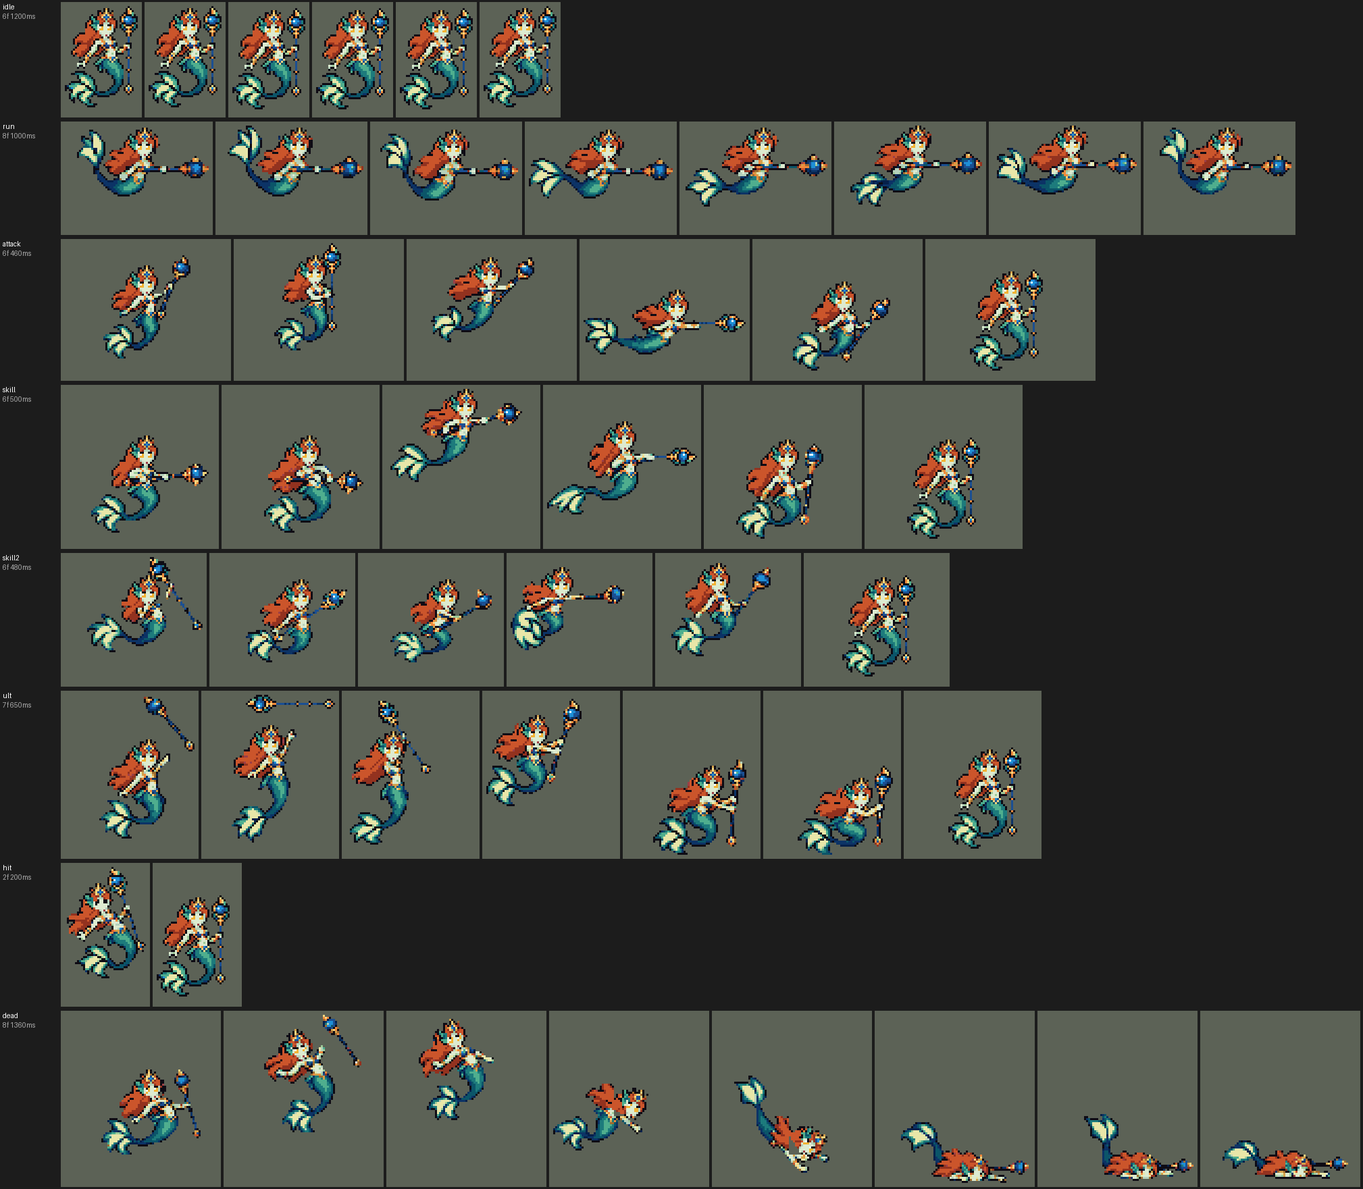
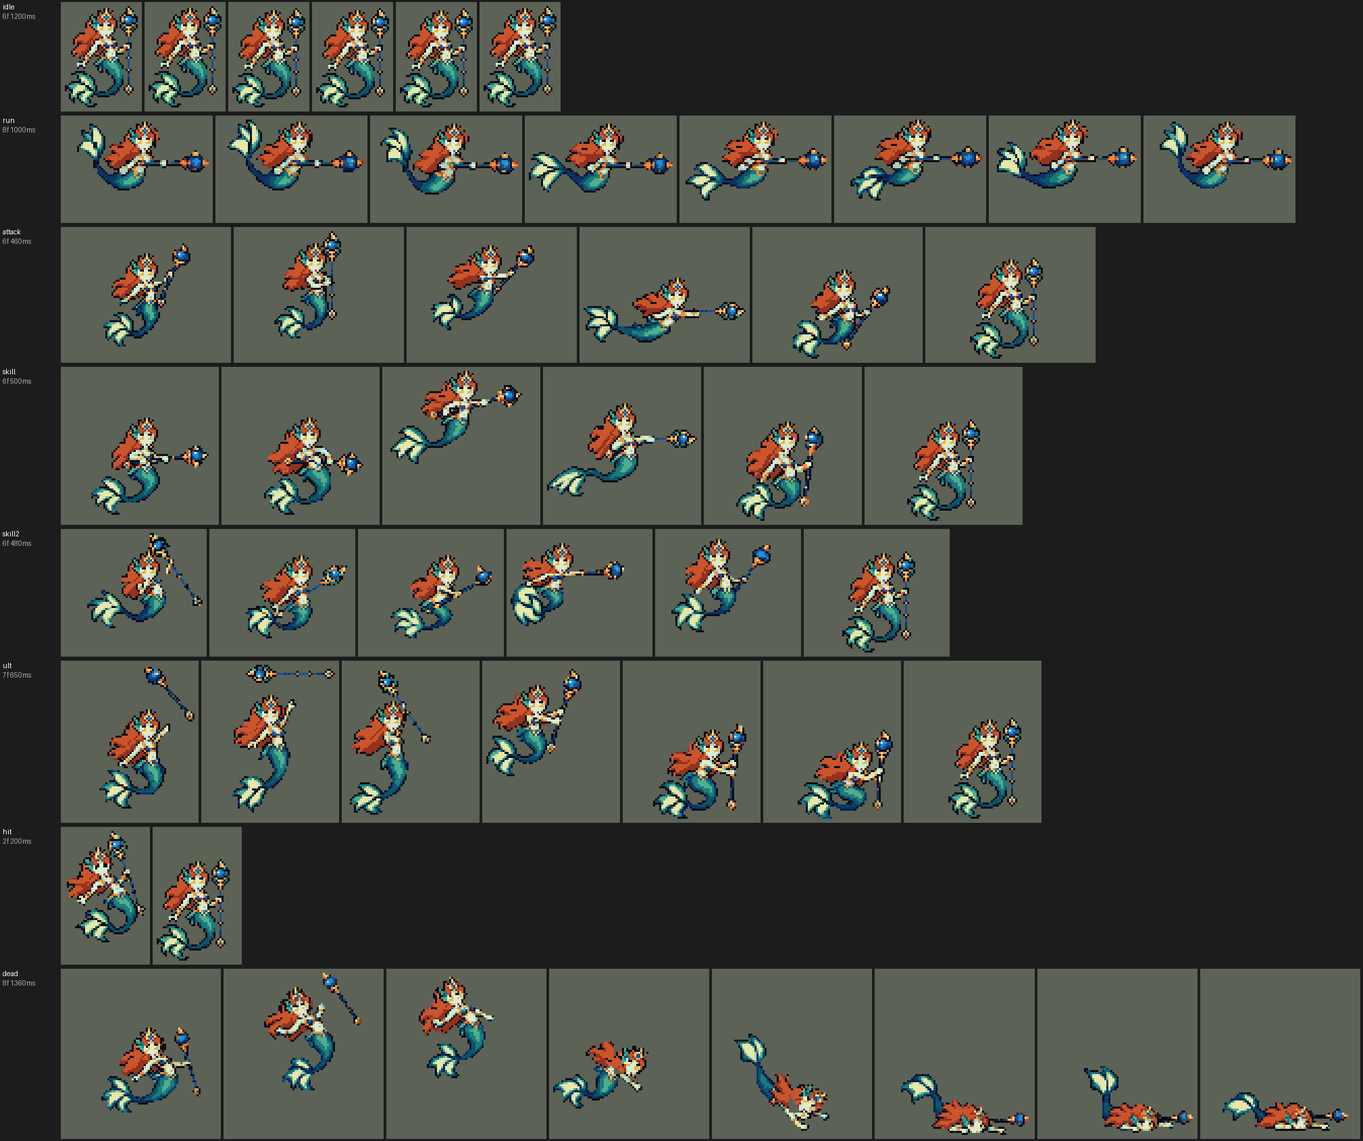
Nami stands on the ground; banpick_center for every tall hero
The user: "整体下移 3 格、去掉浮空" (she sat 3 px high in the collection
grid, where every hero's feet share one line) and "按同样的规则一起调"
(the ban/pick card rule), models unchanged.

- import_native.py SINK: every frame moves down 3 px but not past the
  soles row, so R's landing and the death on the ground stay; the
  pictures are pixel for pixel the old ones. Idle BOB seam 12 -> 8: all
  but the fin's tip and the staff's foot sinks a row, as she bobbed.
- banpick_center = -39 - highest idle row for every hero reaching above
  -28: Master Yi +5, Kayle 0, Nami -1, Janna -2, Fiddlesticks and
  Malphite -4, Briar and Lucian -5, Morgana -6, Lee Sin -7, Darius and
  Yone -9, Leona, Soraka and Thresh -10. Face (6, -47) is now at her
  crown (it was 3 px under it while she floated).
- showcase orb 3 px lower, previews re-rendered, README section.

diff --git a/tools/art/import_native.py b/tools/art/import_native.py
@@ -48,6 +48,11 @@ MOD = os.path.join(ROOT, "league")
 HEAD_ROWS = 12                  # idle frame 1's top rows: the head
 SURE = 0.9                      # share of the head's pixels that must match exactly
 STEADY = ("idle", "run")
+# hero: rows every frame moves down, but never past the soles row (SOLES under the pivot): a hero drawn floating
+# who should stand on the ground. Nami floated 3 px like Janna, so in the collection grid (every hero's feet on one
+# line) she sat high; the user: "整体下移 3 格、去掉浮空". Frames already on the ground stay (R's landing, her death).
+SINK = {"nami": 3}
+SOLES = 11
 ORDER = {("lux", "idle"): [0, 0, 0, 0, 0, 0],   # the step-2 idle is the design in all six (was 0 1 2 3 5 4)
          # League leans his upper body a square forward in idle 4-5 and back in 6, and every frame's head
          # is voted anew, so the face swung and changed shape as he breathed (the user). Frame 1 in every
@@ -157,8 +162,9 @@ BOB = {("yasuo", "idle"): (-2, [2, 3, 4]),
        ("briar", "idle"): (5, [2, 3, 4]),
        # Vayne: the seam across her shins, where the silhouette changes by 4 squares; her boots stay
        ("vayne", "idle"): (5, [2, 3, 4]),
-       # Nami floats like Janna: all of her, down to the fin 3 px above the ground, sinks a row and rises again
-       ("nami", "idle"): (12, [2, 3, 4])}
+       # Nami (on the ground since SINK): all of her but the fin's tip and the staff's foot sinks a row and rises
+       # again, as when she floated; the seam where two rows differ least (4 squares)
+       ("nami", "idle"): (8, [2, 3, 4])}
 CROWN = {"leesin"}              # heroes whose head template starts at the crown (a braid stands above it)
 PASTED = {"masteryi"}            # steadied on the head restyle_native pasted: his raised sword is the top of every frame
 # Codex's step-2 redraw (model_strips_18, tidied by tidy_codex18.py): the approved design's head (or face) is in every
@@ -311,10 +317,20 @@ def build(hero):
             target = round(sum(sure) / len(sure))
             dx = [0 if h is None else target - h for h in hx]
         order = ORDER.get((hero, tag), range(len(fr)))
-        sheet[tag] = [(G.centre_frame(fr[k], dx[k] - rows[k]["pivot"][0], -rows[k]["pivot"][1]), rows[slot]["ms"])
-                      for slot, k in enumerate(order)]
+        sheet[tag] = [(G.centre_frame(fr[k], dx[k] - rows[k]["pivot"][0], sunk(hero, fr[k], rows[k]["pivot"][1])),
+                       rows[slot]["ms"]) for slot, k in enumerate(order)]
         report[tag] = [(None if hx[k] is None else hx[k] + dx[k], dx[k]) for k in order]
     return sheet, report
+
+
+def sunk(hero, frame, py):
+    """The frame's row offset for centre_frame: -py, plus the rows SINK moves it down (as far as the soles row lets
+    its lowest pixel go)."""
+    n = SINK.get(hero, 0)
+    ys = np.nonzero(frame[..., 3].any(1))[0]
+    if n and len(ys):
+        n = max(0, min(n, SOLES - (ys[-1] - py)))
+    return -py + n
 
 
 def touch_up(hero, sheet):

diff --git a/tools/art/preview_nami.py b/tools/art/preview_nami.py
@@ -78,7 +78,7 @@ def showcase(out, z=3, step=40):
         fx_at(small, tag, launch, x0, y0, until=arrive, x1=tx, y1=ty - 8)
         return arrive
 
-    orb = (x + 16, gy - 20)                           # the staff's orb when she thrusts it
+    orb = (x + 16, gy - 17)                           # the staff's orb when she thrusts it
     # she swims in; Garen walks up behind Darius
     run_in = Anim(frames_of(nami, "run"), 0.0, x - 44, gy, loop=True, until=1000, x1=x)
     body.append(run_in)

diff --git a/README.md b/README.md
@@ -59,7 +59,7 @@
 ![贝蕾亚演示：跑进场，Q 冲头扑到德莱厄斯身上眩晕他，进入血莽（绕身的血焰）连咬，2 秒后噬击的獠牙大嘴咬下、给自己回血；E 惊吼：护壳里蓄力 1 秒，尖啸把他击退并眩晕 1 秒，他逃到后面；R 毙除：踢出的血石停在德莱厄斯身上、标记他为猎物，贝蕾亚飞过去落地炸开，命中他和前排走来的盖伦，盖伦恐惧逃出画面；彻底血狂里连咬，噬击咬死德莱厄斯](docs/preview/league_briar_showcase.gif?v=0930c)
 
 ![薇恩演示：跑进场，腕弩的弩箭在德莱厄斯胸口套上圣银弩箭的第一个环；Q 闪避突袭：他在射程里，往后小跳，原地留下一团夜紫色的烟，强化箭套上第二个环，第三箭三环收拢爆开；E 恶魔审判：重箭把他击退，落地撞出尘土、眩晕 1 秒；R 终极时刻：身后亮起四角星光芒、蝙蝠飞散，脚下的四角星地纹和银光点跟着她 8 秒，弩箭再次三环爆开打死德莱厄斯，终极时刻刷新（猩红光环）；盖伦走上来，她往后翻滚隐身 1 秒，强化箭套环](docs/preview/league_vayne_showcase.gif?v=0930vb)
-![娜美演示：游进场，手杖宝珠射出两颗水弹打德莱厄斯；W 冲击之潮的水流打中德莱厄斯，弹到身后的卢锡安身上给他回血、套上唤潮之佑的水环（4 秒）和脚下踏浪之行的水涡，再弹去打走来的盖伦；Q 碧波之牢的水泡抛过去，地上先亮落点圈，落地炸开，德莱厄斯和盖伦被困进水泡浮起 1.25 秒；两人扑上来，R 怒涛之啸：娜美把手杖插在地上，月牙形的巨浪卷过两人把他们击飞](docs/preview/league_nami_showcase.gif?v=0930n2)
+![娜美演示：游进场，手杖宝珠射出两颗水弹打德莱厄斯；W 冲击之潮的水流打中德莱厄斯，弹到身后的卢锡安身上给他回血、套上唤潮之佑的水环（4 秒）和脚下踏浪之行的水涡，再弹去打走来的盖伦；Q 碧波之牢的水泡抛过去，地上先亮落点圈，落地炸开，德莱厄斯和盖伦被困进水泡浮起 1.25 秒；两人扑上来，R 怒涛之啸：娜美把手杖插在地上，月牙形的巨浪卷过两人把他们击飞](docs/preview/league_nami_showcase.gif?v=0930n3)
 
 ## 英雄：盖伦
 
@@ -888,7 +888,7 @@ python tools/art/preview_kayle.py
 - 原来那版的结果：42 色，和右边像素同色的比例 31%（原版英雄 18%–46%），头像截取点 (1, −36)。
 - 重画：玩家反映模型"太抽象"，用户让 Codex 按游戏原尺寸重画全部 63 帧，做法和提示词见 [`assets/source/kayle/MODEL_REDRAW.md`](assets/source/kayle/MODEL_REDRAW.md)。凯尔的格子是 112×112，16 帧的移动整张图 3584×3584，所以每帧单独一张 64×112 格的画布（`tools/art/native_frames.py split`，锚点都在 (32, 86)，拆开再合回逐字节不变）；参考图包含英雄联盟模型渲染，只在本地。交回后 `native_frames.py join` 把每帧按锚点放回格子，再 `import_native.py` 导入。
 - 重画的整理（用户："Codex不合格的地方学稻草人会话的处理方式 麻烦你兜底处理"）：Codex 先交造型图（生图原稿 948×1659、像素块宽 14–16 px 不等），Claude 按它自己的像素边缘逐格取色、整理成 21 色，用户通过（[`kayle_model_design.png`](assets/source/kayle/kayle_model_design.png)）。63 帧里待机 6 帧就是造型图，另外 57 帧仍是生图原稿：半透明边缘、每张两三万种颜色、像素块 11–16 px 宽且各帧不同，头的细节、人的位置也每帧不一样（Codex 的交接说明见 [`codex_model/`](assets/source/kayle/codex_model/)）。`tools/art/tidy_kayle.py` 在游戏像素上整理：每个像素取原稿里它中心的颜色（整格合并会在块宽对不上时重复出一列描边，移动第 11 帧中间多了一条黑线），映射到 21 色；受击和倒地以外的 48 帧擦掉画的头、贴上造型图的头（两只眼睛对上画的眼睛，找不到时按头顶和脸的位置），每帧同一张脸，循环时头不"沸腾"；琥珀色只留在眼睛上；竖直方向按身体最低一行对齐原来那一帧，移动恢复了原版的上下浮动（原稿里低了 3–13 行）；横向保持 Codex 画的位置，待机和移动按眼睛对齐（`import_native.py` 的 `EYES`，和费德提克一样，凯尔从 `PASTED` 移过去）。
-- 重画后的结果：21 色，和右边像素同色的比例 37%，头像截取点 (−2, −40)（去掉翅膀量的头顶）。选人卡片：她从翅膀尖到脚 50 px，不设 `banpick_center` 时翅膀冒出卡片上沿（用户在游戏里看到），设 −9 时翅膀尖被卡片上沿切掉；照原版高个英雄的做法设 (0, 0)：翅膀完整，小腿以下藏在名字栏后面（量法见娜美一节）。Q 第 4 帧 Codex 画得小一圈，没有改。
+- 重画后的结果：21 色，和右边像素同色的比例 37%，头像截取点 (−2, −40)（去掉翅膀量的头顶）。选人卡片：她从翅膀尖到脚 50 px，不设 `banpick_center` 时翅膀冒出卡片上沿（用户在游戏里看到），设 −9 时翅膀尖被卡片上沿切掉；照原版高个英雄的做法设 (0, 0)：翅膀完整，小腿以下藏在名字栏后面（见「选人卡片位置」一节）。Q 第 4 帧 Codex 画得小一圈，没有改。
 
 逐帧预览：[`docs/preview/league_kayle_frames.png`](docs/preview/league_kayle_frames.png)，特效：[`docs/preview/league_kayle_effects.png`](docs/preview/league_kayle_effects.png)。
 
@@ -1148,7 +1148,7 @@ python tools/art/preview_vayne.py
 | 大招 | R「怒涛之啸」：90000 内有敌方英雄时放，冷却 50 秒。第 17 tick 从插在地上的手杖放出巨浪（速度 2500、走 160000、半径 32000），穿过的敌人受 150 + 70% 法术强度的魔法伤害，击飞 0.5 秒并减速 60%；巨浪走得越远减速越久（出手后 32 tick 内打中的 2 秒，之后的 3 秒；英雄联盟是 2 到 4 秒）；经过的友方英雄拿到两倍的踏浪之行加速 |
 | 数值 | 攻击 80（+6）、法术强度 30（+15）、生命 880（+85）、护甲 20（+8）、魔抗 22（+4）、移速 1000（+10）。数值是自己设计的，用 SDK 对战模拟调：打辅助，对 5 个原版辅助（`priest`、`bard`、`enchanter`、`monk`、`taoist`），两边、三套队友阵容各 12 局，一批 360 局。初稿 +1.21；W 改成上面的弹跳规则、第一段 65 + 45% 等削弱后两批 +0.68 / +1.14（同两批莫甘娜 +0.78 / +0.42、迦娜 +0.53 / −0.19）；按动作帧定下出手时机（普攻第 11 tick，W 第 8 tick，Q 第 11 tick，R 第 17 tick）后 +0.96 / +0.60。娜美每局放 W 约 40 次（打英雄约 13 次）、Q 约 23 次、R 约 2.8 次 |
 | 亚索联动 | Q 和 R 的击飞都算亚索大招要的控制：娜美在队里时亚索每局 R 到被控英雄 1.77 次（同一批迦娜 0.94），在本包辅助的范围内（蕾欧娜 1.85），亚索不用调 |
-| 精灵图 | 8 个动作 49 帧：待机、移动、普攻、W、Q、R、受击、死亡。造型按用户给的图由 Codex 按游戏尺寸画（第三轮 A）：红色长发、金冠嵌蓝宝石、琥珀色大眼、鱼鳍耳，金蓝贝壳胸衣和腰带，青绿鳞片的长尾往左下卷、淡黄绿的扇形尾鳍，手持深蓝杖身、金框蓝宝珠的法杖。金冠到尾鳍尖 50 px、36 px 宽，21 色；像迦娜一样浮空 3 px。每帧的时机和站位照英雄联盟原版动画渲染的参考帧 |
+| 精灵图 | 8 个动作 49 帧：待机、移动、普攻、W、Q、R、受击、死亡。造型按用户给的图由 Codex 按游戏尺寸画（第三轮 A）：红色长发、金冠嵌蓝宝石、琥珀色大眼、鱼鳍耳，金蓝贝壳胸衣和腰带，青绿鳞片的长尾往左下卷、淡黄绿的扇形尾鳍，手持深蓝杖身、金框蓝宝珠的法杖。金冠到尾鳍尖 50 px、36 px 宽，21 色；尾鳍落在脚底线上（原来像迦娜一样浮空 3 px，收藏界面里比别人高，用户让整体下移 3 格）。每帧的时机和站位照英雄联盟原版动画渲染的参考帧 |
 | 特效 | 普攻水弹和命中水花、W 水流（弹跳、飞回）、打中敌人的水花、治疗友军的水流、唤潮之佑的水环（友军身上）、踏浪之行的脚下水涡、Q 水泡（抛物线）、落点提示圈、落地炸开的水柱、水牢泡泡（被困的敌人身上）、R 月牙形巨浪、击飞水柱 |
 | 图标 | 官方技能图标（W / Q / R），64×64 |
 | 音频 | 从本地客户端提取的 12 条技能音效和 2 条中文语音（Q、R）。不提交到仓库，按下面的命令在本地生成 |
@@ -1168,12 +1168,23 @@ python tools/art/preview_nami.py
 - 造型：第一轮 Codex 在约 80 格高画（游戏尺寸的约 1.7 倍），尾巴被画短了；照原图把尾巴描回去再缩小，用户觉得"都不满意 看起来太奇怪了""主要是要不模糊细节好"。第三轮照主线卢锡安的做法让 Codex 直接按游戏尺寸画（金冠到尾鳍尖约 50 格），整理时只按它自己的格子取像素。用户选 A，再修两处：脸原来是方的（"怎么方形的脸？"），换成用户选的 D（椭圆脸、尖下巴，两只 2×2 的琥珀色眼睛带白色高光，琥珀色 `#F2B233` 只用在眼睛上）；体型比别的英雄大（"体型还是太大 能不能尽量和别的英雄一个尺寸"），按用户选的 W 每组删掉和相邻最像的一行（列），脸和法杖杖身所在的行列不删，缩到 36×50（和迦娜的面积相近）；尾鳍的浅色换成原图的淡黄绿 `#E8E6A8`。`design_nami.py` 从 Codex 的原稿逐步重建定稿 [`nami_native.png`](assets/source/native/nami_native.png)。
 - 动作参考（`poses.json`）：镜头镜像、yaw 45、pitch 25，头 1.4、头发 0.6，高度 47，浮空 3 px，96×96 的格子。英雄联盟的娜美没有腿，`native_pose.py` 新加的 `"legs"` 选项用尾巴（`Tail1` 链）量脚底；`"flat"` 的帧伸出渲染图下边时（插在地上的法杖、死亡时脸朝下）现在会重新量一次。移动照她基础移速下播的直立游（`run_base` 同时播 `Nami_run_C` 和 `Nami_run_L`），取 `Nami_run_L` 的前 1 秒：尾巴摆一下，8 帧 × 125 ms 首尾相接；普攻 `Nami_attack1`，W `Nami_spell2`，Q `Nami_spell1`，R `Nami_spell4`（抛杖、跃起、落下插杖），死亡 `Nami_Death`（最后三帧沉到地上）。
 - 整理（`tidy_nami.py`）：Codex 按定稿画了 7 条动作（43 帧），全部过了检查（8×8 方块、定稿的 21 色、脚底线，每帧的头和定稿逐格一致，动作和英雄联盟原版的位置只差 1–2 格）。第一版有 13 帧法杖散开（宝珠脱开或没了、格子里飘着碎片），Codex 自己第二遍修好了大半，R 也改成低跳、第 5–6 帧把法杖插在地上；剩下的发回两轮返修，附上从定稿抠出的整根法杖让它逐格贴（竖的、朝右、朝左，斜着拿时整根旋转）。`tidy_nami.py` 把几次交付拼齐：移动、死亡、R 用第二遍，普攻、W、Q、受击用返修版，R 的第 2–3 帧用第二轮返修；普攻、W、Q、R、受击的最后一帧换成定稿站姿，回到待机时不跳；删掉不连在身上的 12 格以下的碎点（按八邻域算，斜着一格宽的法杖算连着）。
-- 导入：待机 6 帧用定稿，第 3–5 帧整张（到尾鳍尖）下沉一格，像迦娜一样浮着上下动（`BOB`）；按琥珀色的眼睛定头的位置（`EYES`），移动时头稳在同一列。移动时尾巴拖在身后，身体比待机悬得高（最低点离地 17 px），头的高度和待机一样。头像截取点 (6, −47)，在金冠处。选人界面（禁用、选择）的英雄格子，从用户截图里 36 张卡片量出来：卡片上部是 131×88 的画布，立绘放大约 2.2 倍，站位点在卡片顶下 88 + 2.2 × `banpick_center.y` 处（不设时同 −12）；设了 `banpick_center` 立绘按画布裁切（原版巨盾兵的盾顶、处刑人的脚底也被切），不设则可以冒出卡片上沿（卢锡安、墨菲特）。画布只装得下约 40 px 高，她从金冠到尾鳍 50 px：不设时金冠冒出卡片上沿，设 −8 时金冠被切掉（用户在游戏里看到）。照原版高个英雄的做法（头顶离画布上沿 1 px，脚藏到名字栏后面：食人魔 −7、死灵法师 −9、处刑人 −10，即 −39 − 待机最高点）设 `banpick_center` (0, 2)：金冠和法杖顶完整，尾鳍下半截藏在名字栏后面。收藏界面不读这个值（所有英雄的脚放在同一条线上，处刑人的 −10 在那里也不起作用），她浮空 3 px，在那里比别人高 3 px。战斗里的站位不变。
+- 导入：待机 6 帧用定稿，按琥珀色的眼睛定头的位置（`EYES`），移动时头稳在同一列。动作参考和 Codex 画的帧都浮空 3 px；用户在收藏界面（所有英雄的脚在同一条线上）看到她偏上，要「整体下移 3 格、去掉浮空」：`import_native.py` 的 `SINK` 把每帧往下移 3 格，但不越过脚底线（R 落地插杖的 2 帧、死亡躺地的 3 帧本来就贴地，不动），画面一个像素都不变。待机第 3–5 帧除了尾鳍尖和法杖底，整个人下沉一格再浮回来（`BOB` 的缝在脚底线上 3 行，那两行只差 4 格），和原来浮着上下动的样子一样。移动时尾巴拖在身后，身体比待机悬得高（最低点离地 14 px），头的高度和待机一样。头像截取点 (6, −47)，在金冠处（浮空时这个点比金冠低 3 px）。选人卡片设 `banpick_center` (0, −1)，见「选人卡片位置」一节。
 - 特效用 Codex 画的 13 张（62 帧）：每张交了生图原稿、它自己整理成 8×8 方块的版本和 1 倍图。1 倍图的格子是原格子的 1/8，大多数正好是想要的大小，照原样用（每个方块一个游戏像素，不重新取样）：水弹 25×10（和迦娜、莫甘娜的普攻弹差不多）、W 水流 26×14、治疗约 25×33、祝福约 28×36（这两张用 Codex 最后精修过的版本）、Q 水泡约 24、炸开 27×29、水牢约 35×45、R 击飞水柱约 30×46、被动水涡 32×12。要和别的英雄或技能范围对上的按多数色重新取样、只用 Codex 自己的颜色：普攻命中 18 px、W 打中 20 px（Codex 画的约 27），Q 落点圈 44 px 宽（半径 22000），R 巨浪 64 px 高（半径 32000，从生图原稿取样，Codex 的格子里只有 46 px 高），巨浪上下镜像成严格对称。锚点：飞行的水弹和水流在格子中线、亮白的水头上，命中量亮核，治疗、祝福、水牢在格子中间（人形空位的中心），落点圈在椭圆中心、放在脚底线上，炸开、击飞水柱和水涡量最低一行（放在脚底线上）。落点圈持续水泡飞行的 0.4 秒，水牢 1.25 秒，祝福和水涡是 buff 的循环画面（水涡画在人物下面）。
 - 出手时刻和动画对齐：普攻第 4 帧宝珠前刺（第 11 tick），W 第 3 帧甩出水流（第 8 tick），Q 第 4 帧甩出水泡（第 11 tick），R 第 5 帧插杖（第 17 tick）。
 - 结果：21 色，和右边像素同色的比例 33%（原版英雄 18%–46%）。待机每帧 918 个不透明像素，和迦娜（902）、卢锡安（983）相近。
 
 逐帧预览：[`docs/preview/league_nami_frames.png`](docs/preview/league_nami_frames.png)，特效：[`docs/preview/league_nami_effects.png`](docs/preview/league_nami_effects.png)。
+
+## 选人卡片位置（`banpick_center`）
+
+用户在禁用界面看到娜美、凯尔被卡片切头、冒出卡片。从截图量了 36 张卡片（把每位英雄的待机帧放大后逐张对上截图；按量出的规则画的模拟卡片和截图一致）：
+
+- 禁用、选择界面的英雄格子上部是 131×88 的画布，待机动画放大约 2.2 倍，站位点在卡片顶下 88 + 2.2 × `banpick_center.y` 处；不设时同 −12（脚在画布底边）。
+- 设了 `banpick_center`，立绘按画布裁切（原版巨盾兵的盾顶、处刑人的脚底也被切掉）；不设则不裁，高个英雄冒出卡片上沿（用户看到的凯尔）。
+- 画布只装得下约 40 px 高。原版给高个英雄设的值正好是 −39 − 待机最高点（食人魔 −7、死灵法师 −9、处刑人和骑兵 −10）：头顶离画布上沿 1 px，脚藏到名字栏后面。
+- 收藏界面不读这个值，所有英雄的脚放在同一条线上（处刑人的 −10 在那里也不起作用）。
+
+按这条规则，待机最高点高过 −28 的英雄都设上了（用户：「按同样的规则一起调」，模型不变）：易 +5（剑尖）、凯尔 0（翅膀）、娜美 −1（金冠）、迦娜 −2、费德提克和墨菲特 −4、贝蕾亚和卢锡安 −5、莫甘娜 −6、李青 −7、德莱厄斯和永恩 −9、蕾欧娜、索拉卡和锤石 −10。锐雯、薇恩（−28）和其余英雄装得下，不设。第一次给娜美、凯尔设的 −8、−9 是按"居中"算的，把金冠和翅膀尖切掉了。
 
 ## 修正（0.15.0）：`WithSelf` 不是"只给自己"
 

diff --git a/.claude/skills/tfm2-hero-mod/references/text-audio.md b/.claude/skills/tfm2-hero-mod/references/text-audio.md
@@ -82,7 +82,8 @@ the sprite is clipped to the canvas** (shield_bearer loses its shield top, execu
 foot row); without it the sprite may stick out above the card (league_lucian, league_malphite).
 The canvas holds ~40 px: a hero whose idle reaches higher than -28 sticks out, and base's answer
 for its tall ones is y = -39 - (highest idle row), head 1 px under the canvas top and the feet
-hidden by the name band (league_nami 2, league_kayle 0). The collection grid
+hidden by the name band; every League hero whose idle reaches above -28 has it (league_masteryi +5
+for his sword, league_kayle 0, league_nami -1 ... league_thresh -10). The collection grid
 (`new_game_component/custom_champion_slot`) ignores it: every hero's feet sit on the image bottom
 there (executioner's -10 too), so a hover shows as sitting higher. The tier-list card
 (`champion_info_component/champion_slot`, 85x93 image) cut league_nami's crown as well; how it
